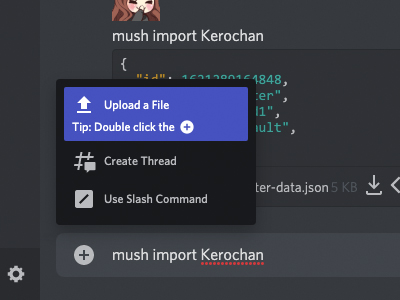
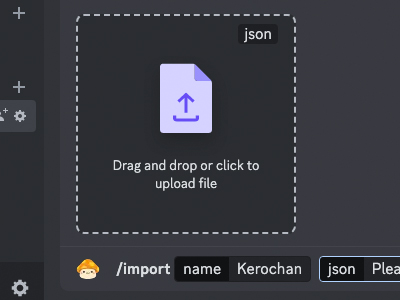
update get-started

diff --git a/docs/_includes/_get-started/step-2-json.html b/docs/_includes/_get-started/step-2-json.html
@@ -7,8 +7,9 @@
             <h5>Step 2</h5>
             <h3>Import your character</h3>
             <div class="text-muted">
-                Type the command <code>mush import &lt;char_name&gt;</code> with the
-                name you want to use and attach the exported <code>character-data.json</code> file
+                Type the command <code>/import</code> with the name you want to use
+                and drag and drop the exported <code>character-data.json</code> file
+                to upload
             </div>
         </div>
     </div>

diff --git a/docs/_includes/_get-started/step-2-url.html b/docs/_includes/_get-started/step-2-url.html
@@ -7,8 +7,8 @@
             <h5>Step 2</h5>
             <h3>Import your character</h3>
             <div class="text-muted">
-                Type the command <code>mush import &lt;char_name&gt; &lt;url&gt;</code> with the
-                name you want to use and paste the URL from your clipboard
+                Type the command <code>/import</code> with the name you want to use
+                and paste the URL from your clipboard into the url field
             </div>
         </div>
     </div>

diff --git a/docs/_includes/_get-started/step-3.html b/docs/_includes/_get-started/step-3.html
@@ -7,7 +7,7 @@
             <h5>Step 3</h5>
             <h3>Set info</h3>
             <div class="text-muted">
-                Optional. Use <code>mush set info</code> to input information others can see in your
+                Optional. Use <code>/set info</code> to input information others can see in your
                 character profile
             </div>
         </div>
